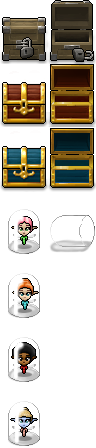
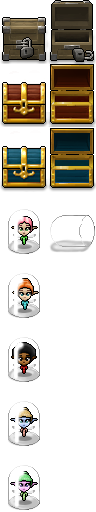
ADD New Fairy (poison)

diff --git a/src/Items.h b/src/Items.h
@@ -27,6 +27,7 @@ enum enumFamiliar
   FamiliarFairyTarget,  /**< Target Fairy */
   FamiliarFairyFire,    /**< Fire Fairy */
   FamiliarFairyIce,     /**< Ice Fairy */
+  FamiliarFairyPoison,  /**< Poison Fairy */
 };
 
 // spells
@@ -121,6 +122,7 @@ enum enumItemType
   ItemBookRapidShots,
   ItemGemPoison,
   ItemSpellFlower,
+  ItemFairyPoison,
 
   NUMBER_ITEMS
 };
@@ -391,6 +393,10 @@ const itemStuct items[NUMBER_ITEMS] =
     ItemSpellFlower, "item_spell_flower", "item_spell_flower_desc",
     60, true, FamiliarNone, false, false, true, 1, RarityCommon, false, -1, ShotTypeStandard, SpellFlower
   },
+  {
+    ItemFairyPoison, "item_fairy_poison", "item_fairy_poison_desc",
+    30, true, FamiliarFairyPoison, false, true, true, 2, RarityUncommon, false, -1, ShotTypeStandard, SpellNone
+  },
 };
 
 /** Item equipment type enum
@@ -447,6 +453,7 @@ enum item_equip_enum {
   EQUIP_RAPID_SHOT,
   EQUIP_GEM_POISON,
   EQUIP_SPELL_FLOWER,
+  EQUIP_FAIRY_POISON,
 
   NUMBER_EQUIP_ITEMS
   };
@@ -496,6 +503,7 @@ const std::vector<item_equip_enum> sortedEquipement =
   EQUIP_FAIRY,
   EQUIP_FAIRY_ICE,
   EQUIP_FAIRY_FIRE,
+  EQUIP_FAIRY_POISON,
   EQUIP_FAIRY_TARGET,
 
   // spells

diff --git a/src/ChestEntity.cpp b/src/ChestEntity.cpp
@@ -208,6 +208,7 @@ void ChestEntity::open()
       case FamiliarFairyIce: itemType = ItemFairyIce; break;
       case FamiliarFairyFire: itemType = ItemFairyFire; break;
       case FamiliarFairyTarget: itemType = ItemFairyTarget; break;
+      case FamiliarFairyPoison: itemType = ItemFairyPoison; break;
     }
 
     ItemEntity* newItem = new ItemEntity(itemType, x, y);

diff --git a/src/FairyEntity.cpp b/src/FairyEntity.cpp
@@ -45,6 +45,10 @@ FairyEntity::FairyEntity(float x, float y, enumFamiliar fairyType) : SpriteEntit
     fairyFireDelay = FAIRY_FIRE_DELAY;
     fairyDamages = FAIRY_FIRE_DAMAGES;
     break;
+  case FamiliarFairyPoison:
+    shotType = ShotTypePoison;
+    fairyFireDelay = ICE_FAIRY_FIRE_DELAY;
+    break;
 
   case FamiliarNone:
     break;
